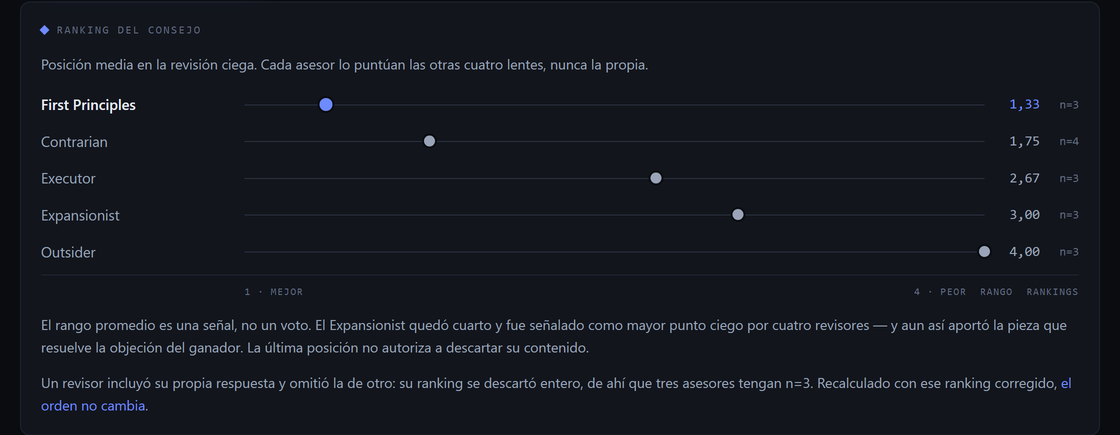
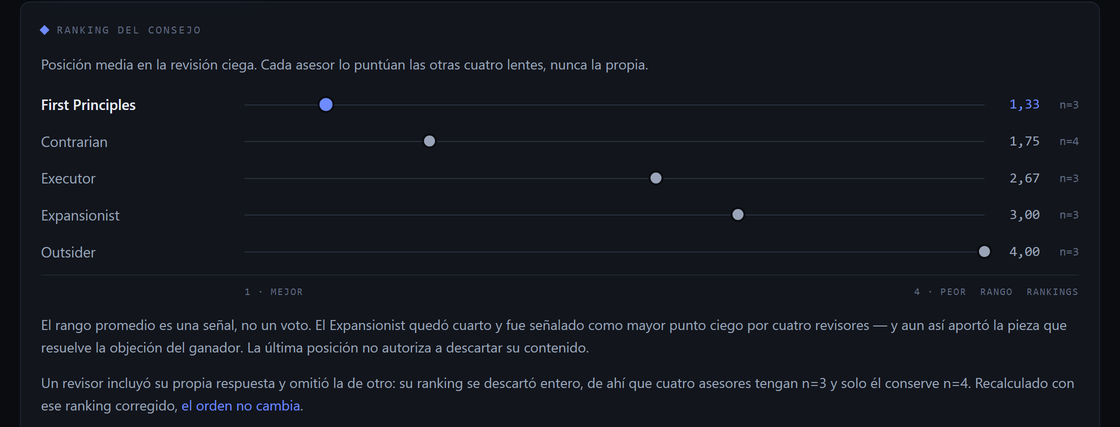
Fix two claims in "Why the differences exist"
The screenshot caption said three advisors show n=3; the chart shows four —
discarding one reviewer's ranking costs a data point to everyone except that
reviewer, who keeps n=4 because the discarded list was the one that never
scored it. Corrected in both READMEs, in the report the screenshots come from,
and in the regenerated crops.

The residual self-ranking rate was stated as "roughly one reviewer in five,
usually at the top" across "measured runs". It comes from a single session:
one reviewer out of five, placed first. Restated as the single observation it
is, here and in SKILL.md. Also dated the earlier incident, which happened
before the rank-only-the-others rule existed.

diff --git a/LEEME.md b/LEEME.md
@@ -74,13 +74,13 @@ Esa decisión tiene una consecuencia: un ángulo se identifica solo. El Contrari
 
 **3. Un revisor no puede puntuarse a sí mismo.** En el original cada modelo puntúa todas las respuestas, la suya incluida. Conviene ser exacto aquí, porque su README y su código no coinciden: el README dice que cada modelo recibe las respuestas de los *otros*, pero `stage2_collect_rankings` en `backend/council.py` arma un único prompt con toda la etapa 1 y lo envía a cada modelo del consejo. O sea, cada uno sí ve y puntúa la suya. Ahí es inofensivo: un modelo no tiene forma de distinguir la propia entre cuatro desconocidas.
 
-Las nuestras la distinguen al instante. En pruebas, un revisor puso su propia respuesta en primer lugar pese a la instrucción explícita de no favorecer su propio ángulo; leyó la regla, y el tirón de darse la razón ganó. Repetir la prohibición con más énfasis es el arreglo que se siente bien y no cambia nada: el modelo ya la había entendido. Así que aquí cada revisor puntúa solo las cuatro respuestas que no escribió.
+Las nuestras la distinguen al instante. En la primera sesión de prueba — corrida antes de que existiera esta regla, cuando los revisores todavía puntuaban las cinco — un revisor puso su propia respuesta en primer lugar pese a la instrucción explícita de no favorecer su propio ángulo; leyó la regla, y el tirón de darse la razón ganó. Repetir la prohibición con más énfasis es el arreglo que se siente bien y no cambia nada: el modelo ya la había entendido. Así que aquí cada revisor puntúa solo las cuatro respuestas que no escribió.
 
-**Honestidad sobre este último arreglo:** funciona, pero no siempre. En las corridas medidas, aproximadamente uno de cada cinco revisores sigue colando su propia respuesta, y casi siempre arriba. Por eso la fase 3 comprueba el cumplimiento antes de promediar, descarta el ranking que no cumple, declara cuántos se contaron y, si el resultado está apretado, recalcula con el ranking descartado corregido para verificar que el orden no dependa de esa decisión.
+**Honestidad sobre este último arreglo:** funciona, pero no siempre. La evidencia es una sola sesión corrida bajo esta regla — cinco revisores, de los cuales uno igual coló su propia respuesta y la puso primera. Es una observación aislada, no una tasa medida, y se reporta porque es el único dato que hay. Por eso la fase 3 asume que el desliz puede ocurrir: comprueba el cumplimiento antes de promediar, descarta el ranking que no cumple, declara cuántos se contaron y, si el resultado está apretado, recalcula con el ranking descartado corregido para verificar que el orden no dependa de esa decisión.
 
 ![El gráfico de ranking, con un ranking descartado y el recálculo que confirma que el orden no cambia](./docs/council-ranking.png)
 
-*Cómo se ve eso en la práctica. Tres asesores aparecen con n=3 porque se descartó el ranking de un revisor; la nota lo dice, y dice que el orden sobrevive al recálculo sin él. El rango se dibuja como posición en una escala de 1 a 4, no como longitud de barra: el rango promedio es una escala invertida sin cero con sentido, así que una barra leería al revés.*
+*Cómo se ve eso en la práctica. Cuatro asesores aparecen con n=3 porque se descartó el ranking de un revisor; ese revisor conserva n=4, porque el ranking descartado era justamente el único que no lo puntuaba. La nota lo dice, y dice que el orden sobrevive al recálculo sin él. El rango se dibuja como posición en una escala de 1 a 4, no como longitud de barra: el rango promedio es una escala invertida sin cero con sentido, así que una barra leería al revés.*
 
 Cada una de estas es una desviación de la letra del método para conservar aquello de lo que el método depende. Están documentadas en vez de escondidas porque quien lee merece saber qué decisiones son de Karpathy y cuáles de esta bifurcación.
 

diff --git a/README.md b/README.md
@@ -74,13 +74,13 @@ That choice has a consequence: an angle is self-identifying. The Contrarian is r
 
 **3. A reviewer cannot rank itself.** In the original, every model ranks every response, its own included. Worth being exact here, because his README and his code disagree: the README says each LLM "is given the responses of the *other* LLMs", but `stage2_collect_rankings` in `backend/council.py` builds one prompt containing all of Stage 1 and sends that same prompt to every council model. So each one does see and rank its own answer. It is harmless there — a model has no way to pick its own out of four strangers.
 
-Ours can pick it out instantly. In testing, a reviewer placed its own answer first despite an explicit instruction not to favor its own angle; it read the rule, and the pull of agreeing with itself won. Restating the prohibition more forcefully is the fix that feels right and changes nothing — the model already understood. So reviewers here rank only the four responses they did not write.
+Ours can pick it out instantly. In the first test session — run before this rule existed, when reviewers still ranked all five — a reviewer placed its own answer first despite an explicit instruction not to favor its own angle; it read the rule, and the pull of agreeing with itself won. Restating the prohibition more forcefully is the fix that feels right and changes nothing — the model already understood. So reviewers here rank only the four responses they did not write.
 
-**Honest about that fix: it works, but not every time.** In measured runs roughly one reviewer in five still slips its own answer into the ranking, usually at the top. Phase 3 therefore checks compliance before aggregating, discards a non-compliant ranking, states how many were counted, and — when the result is close — recomputes with the discarded ranking repaired to confirm the order does not depend on that call.
+**Honest about that fix: it works, but not every time.** The evidence base is one session run under this rule — five reviewers, of whom one still slipped its own answer into the ranking and placed it first. That is a single observation, not a measured rate, and it is reported here because it is the only number there is. Phase 3 therefore assumes the slip can happen: it checks compliance before aggregating, discards a non-compliant ranking, states how many were counted, and — when the result is close — recomputes with the discarded ranking repaired to confirm the order does not depend on that call.
 
 ![The ranking chart, showing one reviewer's ranking discarded and the recomputation that confirms the order](./docs/council-ranking.png)
 
-*What that looks like in practice — same Spanish session. Three advisors show `n=3` because one reviewer's ranking was thrown out; the note under the chart says so, and says the order survives recomputing without it. Rank is plotted as position on a 1–4 scale rather than bar length: average rank is an inverted scale with no meaningful zero, so a bar would read backwards — longest bar, worst advisor.*
+*What that looks like in practice — same Spanish session. Four advisors show `n=3` because one reviewer's ranking was thrown out; the reviewer whose ranking was discarded keeps `n=4`, since it was the one ranking that never scored it. The note under the chart says so, and says the order survives recomputing without it. Rank is plotted as position on a 1–4 scale rather than bar length: average rank is an inverted scale with no meaningful zero, so a bar would read backwards — longest bar, worst advisor.*
 
 Each of those is a departure from the letter of the method in order to preserve what the method depends on. They are documented rather than hidden because a reader deserves to know which decisions are Karpathy's and which are this fork's.
 

diff --git a/SKILL.md b/SKILL.md
@@ -145,7 +145,7 @@ Two notes on why the reviewer prompt is shaped this way:
 
 **The ranking excludes the reviewer's own response.** Karpathy's models rank every response including their own — his README says otherwise, but `stage2_collect_rankings` sends one prompt containing all Stage 1 answers to every council model — and that is safe there because model identity is effectively hidden. Here it is not: a lens recognizes its own text instantly, and self-favoring has been observed in practice even with an explicit instruction against it. Since the reviewer can identify its own answer either way, excluding it structurally is more robust than prohibiting a bias the model will act on anyway. Every advisor still receives four rankings from four other lenses, on four-item lists — symmetric, so the averages stay comparable.
 
-Be aware this instruction is followed, not guaranteed: in measured runs roughly one reviewer in five still slips its own answer into the ranking, usually at the top. That is why Phase 3 checks compliance before aggregating instead of trusting the format.
+Be aware this instruction is followed, not guaranteed: in the one session measured under this rule, one of the five reviewers still slipped its own answer into the ranking and put it first. That is why Phase 3 checks compliance before aggregating instead of trusting the format.
 
 ## Phase 3: Chairman synthesis
 
@@ -153,7 +153,7 @@ You, the main agent, are the Chairman. You already hold the conversation context
 
 1. **Aggregate the rankings.** Parse each `FINAL RANKING:` block, map letters back to advisors, and compute each advisor's **average position**. Sort ascending, lower is better.
 
-   **Check compliance first — one reviewer in five gets this wrong.** Each ranking must list exactly four labels and must not contain the reviewer's own. Two failure modes, handled differently:
+   **Check compliance first — a reviewer sometimes gets this wrong.** Each ranking must list exactly four labels and must not contain the reviewer's own. Two failure modes, handled differently:
    - *Ranked five.* It simply included itself. Drop its own entry, close the gap, keep the rest.
    - *Ranked four but the wrong four* — its own is present and someone else's is missing. Discard that ranking entirely: it both self-promotes and denies a data point to whoever it dropped. Say so in the verdict.
 
